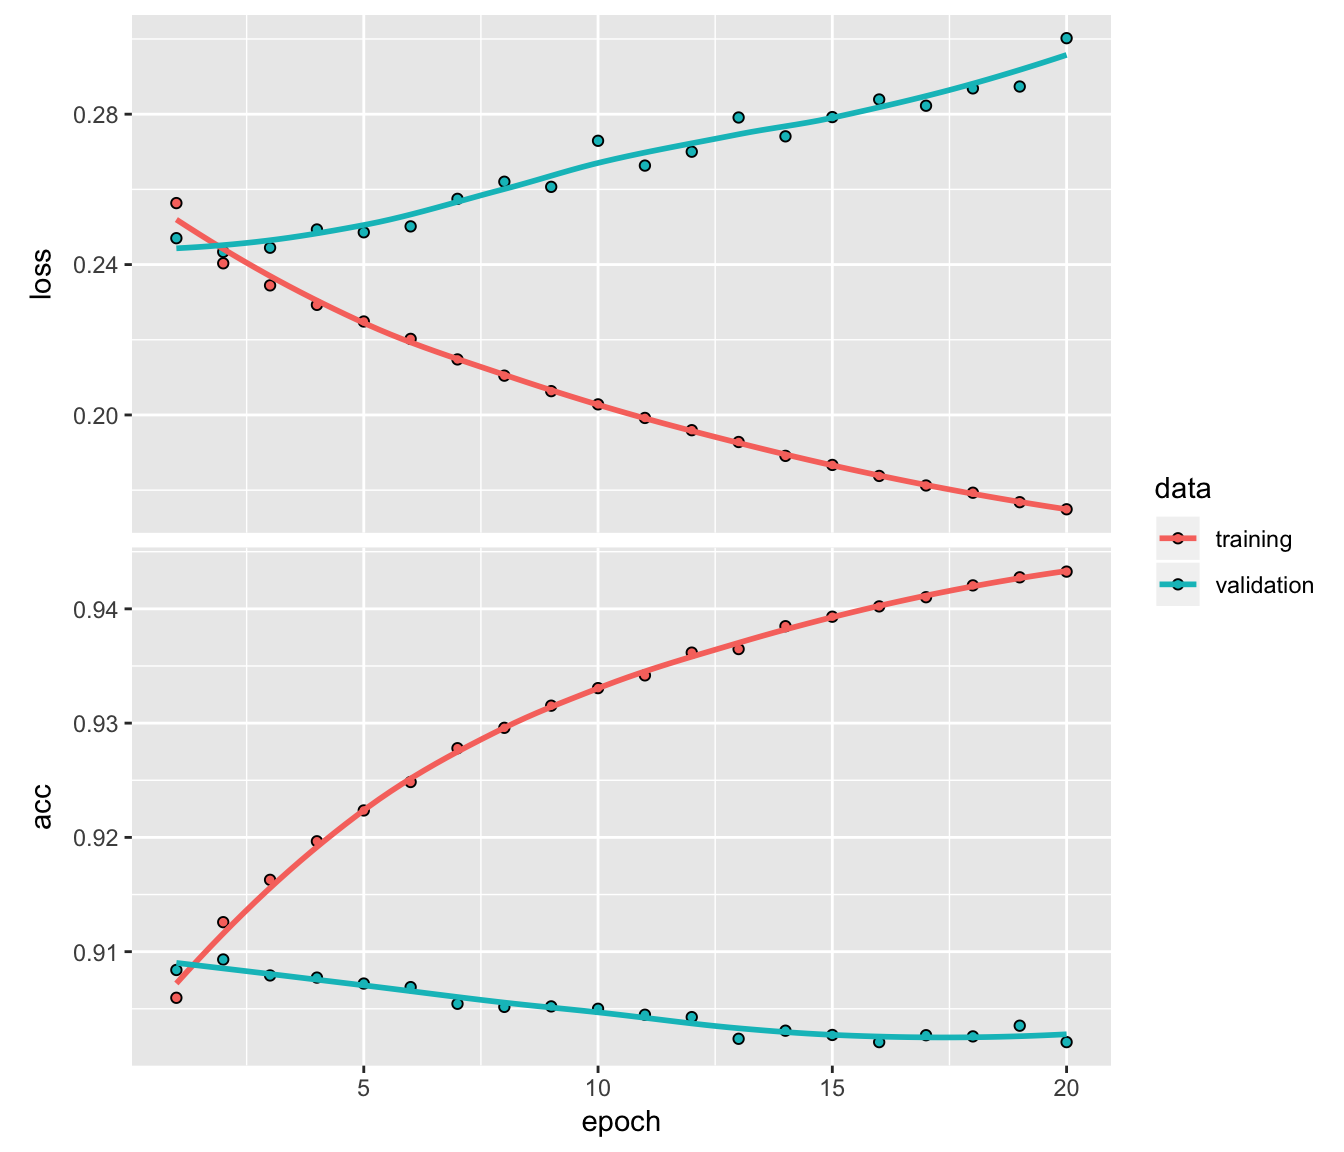
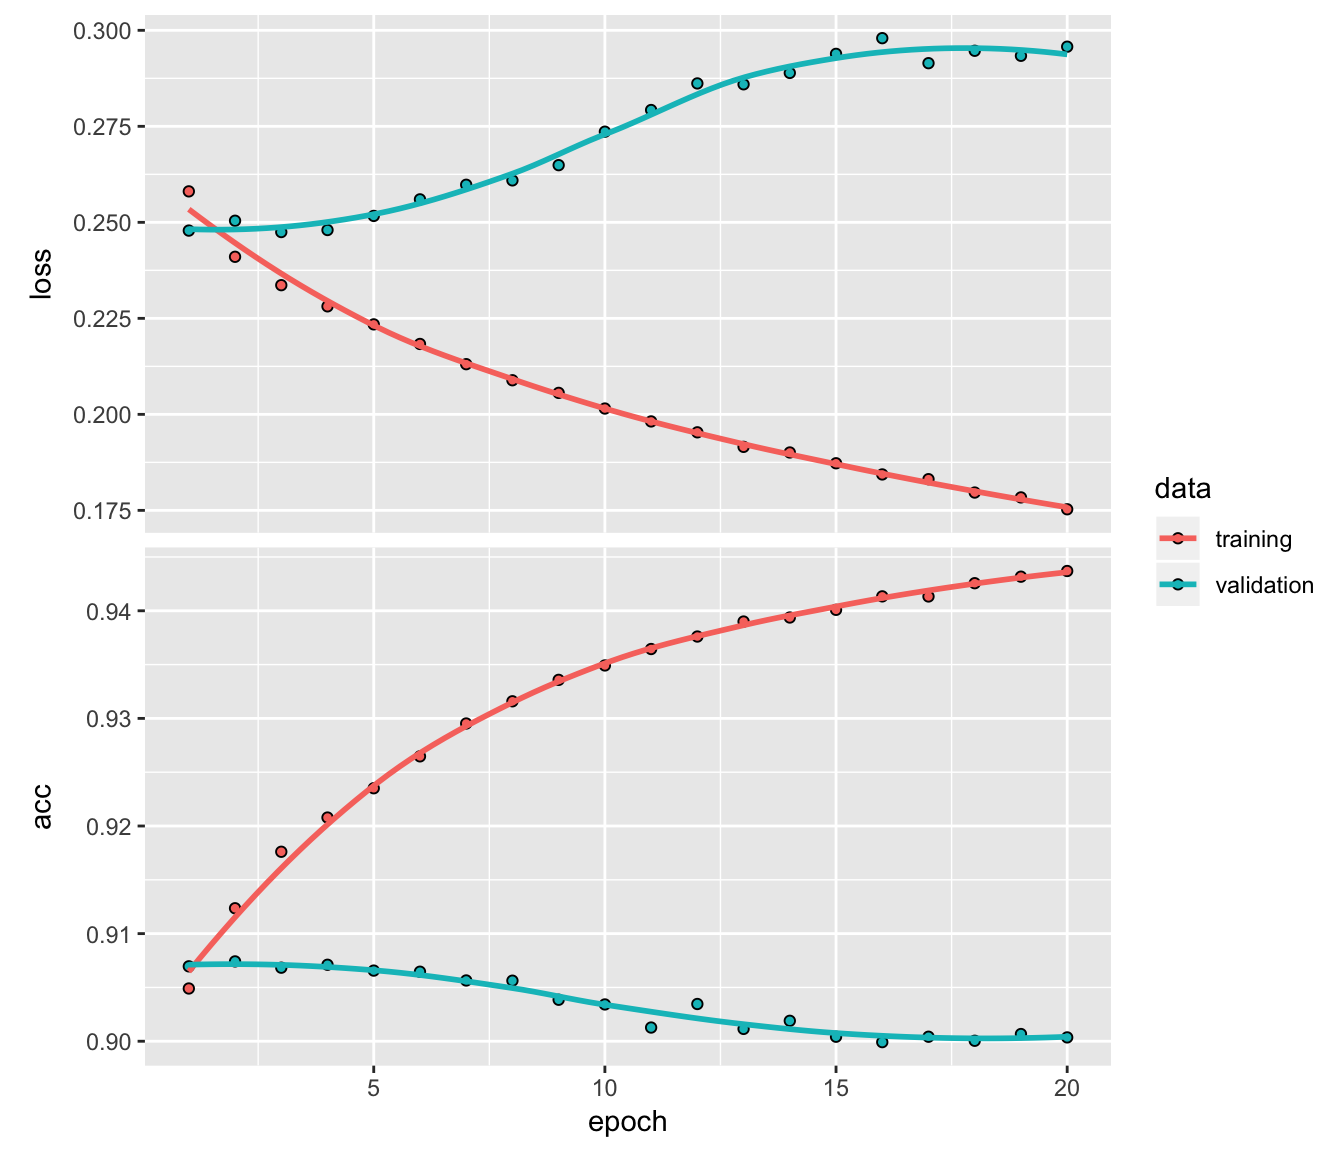
update

diff --git a/santander_customer_transaction_prediction/santandar_costumer_trans_pred_keras.html b/santander_customer_transaction_prediction/santandar_costumer_trans_pred_keras.html
@@ -596,7 +596,7 @@ keras_model</code></pre></div>
 FALSE {
 FALSE     keras$models$Model(inputs = unname(inputs), outputs = unname(outputs))
 FALSE }
-FALSE &lt;bytecode: 0x7fb12491abc0&gt;
+FALSE &lt;bytecode: 0x7fdc708cbd50&gt;
 FALSE &lt;environment: namespace:keras&gt;</code></pre>
 <p>We use the fit() function to run the ANN on our training data. * The batch_size = 500 sets the number samples per gradient update within each epoch. * We set epochs = 10 to control the number training cycles. Typically we want to keep the batch size high since this decreases the error within each training cycle (epoch). * We also want epochs to be large, which is important in visualizing the training history (discussed below). * We set validation_split = 0.30 to include 30% of the data for model validation, which prevents overfitting.</p>
 <div class="sourceCode"><pre class="sourceCode r"><code class="sourceCode r"><span class="co"># Fit the keras model to the training data</span>
@@ -615,10 +615,10 @@ history &lt;-<span class="st"> </span><span class="kw">fit</span>(
 <span class="kw">print</span>(history)</code></pre></div>
 <pre><code>## Trained on 112,000 samples, validated on 48,001 samples (batch_size=26, epochs=20)
 ## Final epoch (plot to see history):
-##      acc: 0.9433
-##     loss: 0.1749
-##  val_acc: 0.9021
-## val_loss: 0.3002</code></pre>
+##      acc: 0.9437
+##     loss: 0.1753
+##  val_acc: 0.9004
+## val_loss: 0.2957</code></pre>
 </div>
 <div id="plot-the-trainingvalidation-history-of-our-keras-model" class="section level2">
 <h2><span class="header-section-number">8.2</span> Plot the training/validation history of our Keras model</h2>
@@ -648,16 +648,16 @@ estimates_keras_tbl</code></pre></div>
 <pre><code>## # A tibble: 39,999 x 3
 ##    Truth Estimate Class_prob
 ##    &lt;fct&gt; &lt;fct&gt;         &lt;dbl&gt;
-##  1 no    no          0.0519 
-##  2 no    no          0.0200 
-##  3 no    no          0.104  
-##  4 no    no          0.0117 
-##  5 no    no          0.110  
-##  6 no    no          0.0592 
-##  7 no    no          0.00751
-##  8 no    no          0.0990 
-##  9 no    no          0.427  
-## 10 no    no          0.0269 
+##  1 no    no          0.0461 
+##  2 no    no          0.0251 
+##  3 no    yes         0.722  
+##  4 no    no          0.0153 
+##  5 no    no          0.0450 
+##  6 no    no          0.0775 
+##  7 no    no          0.00805
+##  8 no    no          0.0327 
+##  9 no    no          0.0832 
+## 10 no    no          0.0161 
 ## # … with 39,989 more rows</code></pre>
 </div>
 <div id="confusion-table" class="section level1">
@@ -666,8 +666,8 @@ estimates_keras_tbl</code></pre></div>
 estimates_keras_tbl <span class="op">%&gt;%</span><span class="st"> </span><span class="kw">conf_mat</span>(Truth, Estimate)</code></pre></div>
 <pre><code>##           Truth
 ## Prediction    no   yes
-##        no  35190  2869
-##        yes   927  1013</code></pre>
+##        no  35063  2780
+##        yes  1054  1102</code></pre>
 </div>
 <div id="accuracy" class="section level1">
 <h1><span class="header-section-number">12</span> Accuracy</h1>
@@ -676,8 +676,8 @@ estimates_keras_tbl <span class="op">%&gt;%</span><span class="st"> </span><span
 <pre><code>## # A tibble: 2 x 3
 ##   .metric  .estimator .estimate
 ##   &lt;chr&gt;    &lt;chr&gt;          &lt;dbl&gt;
-## 1 accuracy binary         0.905
-## 2 kap      binary         0.303</code></pre>
+## 1 accuracy binary         0.904
+## 2 kap      binary         0.318</code></pre>
 <p>We are getting roughly <strong>91%</strong> accuracy.</p>
 </div>
 <div id="area-under-the-curve-auc-measurement" class="section level1">
@@ -688,7 +688,7 @@ estimates_keras_tbl <span class="op">%&gt;%</span><span class="st"> </span>yards
 <pre><code>## # A tibble: 1 x 3
 ##   .metric .estimator .estimate
 ##   &lt;chr&gt;   &lt;chr&gt;          &lt;dbl&gt;
-## 1 roc_auc binary         0.796</code></pre>
+## 1 roc_auc binary         0.813</code></pre>
 </div>
 <div id="precision-and-recall" class="section level1">
 <h1><span class="header-section-number">14</span> Precision And Recall</h1>
@@ -699,9 +699,9 @@ estimates_keras_tbl <span class="op">%&gt;%</span><span class="st"> </span>yards
   <span class="dt">recall    =</span> estimates_keras_tbl <span class="op">%&gt;%</span><span class="st"> </span><span class="kw">recall</span>(Truth, Estimate)
 )</code></pre></div>
 <pre><code>##   precision..metric precision..estimator precision..estimate
-## 1         precision               binary            0.924617
+## 1         precision               binary           0.9265386
 ##   recall..metric recall..estimator recall..estimate
-## 1         recall            binary        0.9743334</code></pre>
+## 1         recall            binary        0.9708171</code></pre>
 <ul>
 <li><p>We find a <strong>precision: 0.6</strong>, and <strong>recall: 0.25</strong>.</p></li>
 <li><p>Precision and recall are very important to the business case: The organization is concerned with balancing the cost of targeting and retaining customers at risk of leaving with the cost of inadvertently targeting customers that are not planning to leave (and potentially decreasing revenue from this group). The threshold above which to predict Target = <code>1</code> can be adjusted to optimize for the business problem.</p></li>
@@ -715,7 +715,7 @@ estimates_keras_tbl <span class="op">%&gt;%</span><span class="st"> </span><span
 <pre><code>## # A tibble: 1 x 3
 ##   .metric .estimator .estimate
 ##   &lt;chr&gt;   &lt;chr&gt;          &lt;dbl&gt;
-## 1 f_meas  binary         0.949</code></pre>
+## 1 f_meas  binary         0.948</code></pre>
 </div>
 <div id="predict-test-dataset" class="section level1">
 <h1><span class="header-section-number">16</span> Predict test dataset</h1>

diff --git a/README.md b/README.md
@@ -40,6 +40,6 @@
 </a>
 
 
-<a href="https://kmezhoud.github.io/learn_by_example/santander_customer_transaction/santander_costumer_trans_pred_keras.html" target = "_blank">
+<a href="https://kmezhoud.github.io/learn_by_example/santander_customer_transaction_prediction/santander_costumer_trans_pred_keras.html" target = "_blank">
 <img src="images/keras.png" align="left" height="150" width="250" title="santander customer transaction prediction with keras (MLP)">
 </a>
